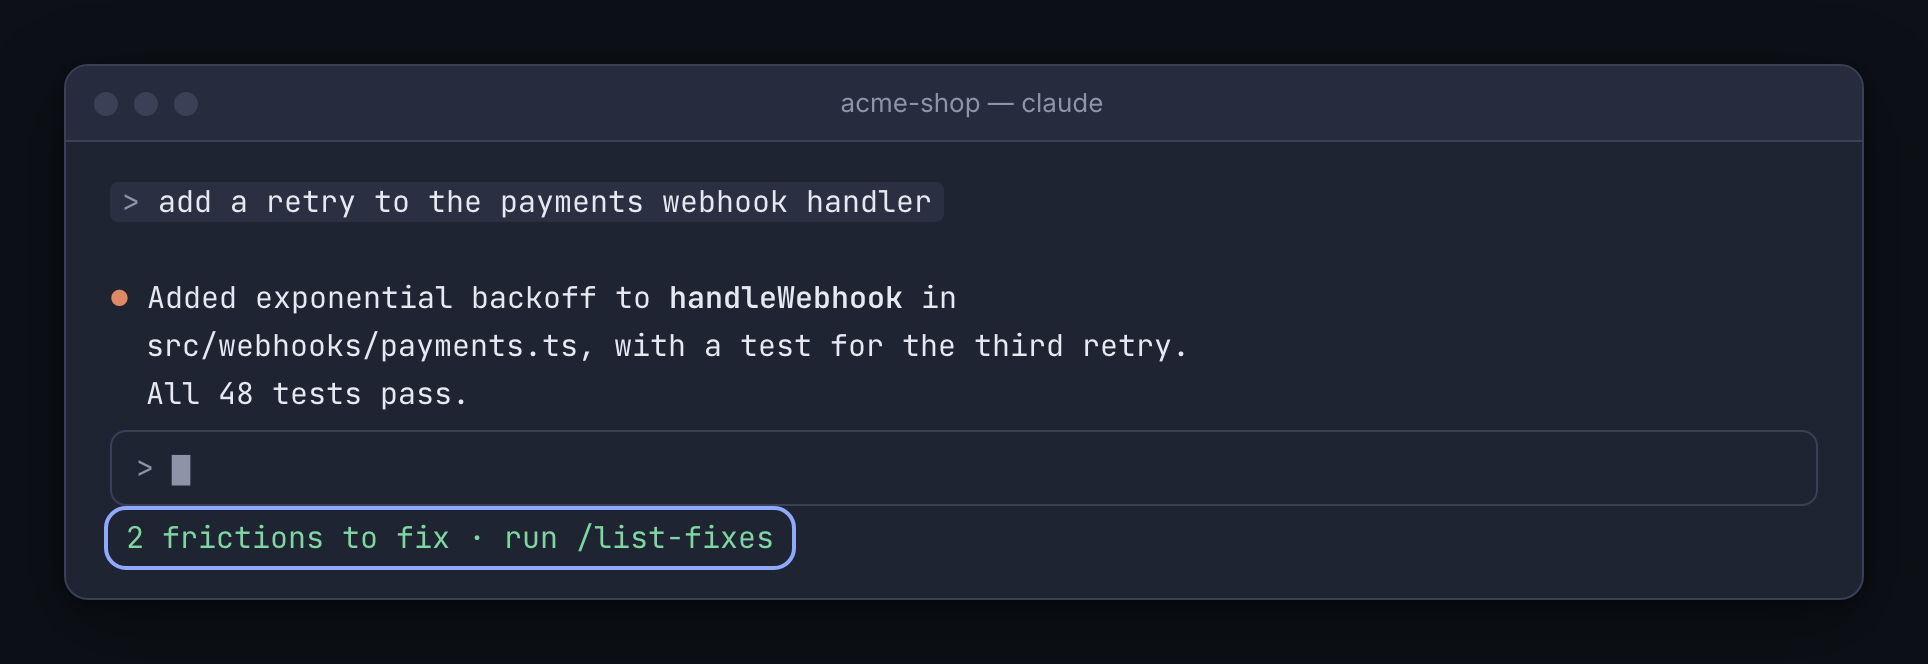
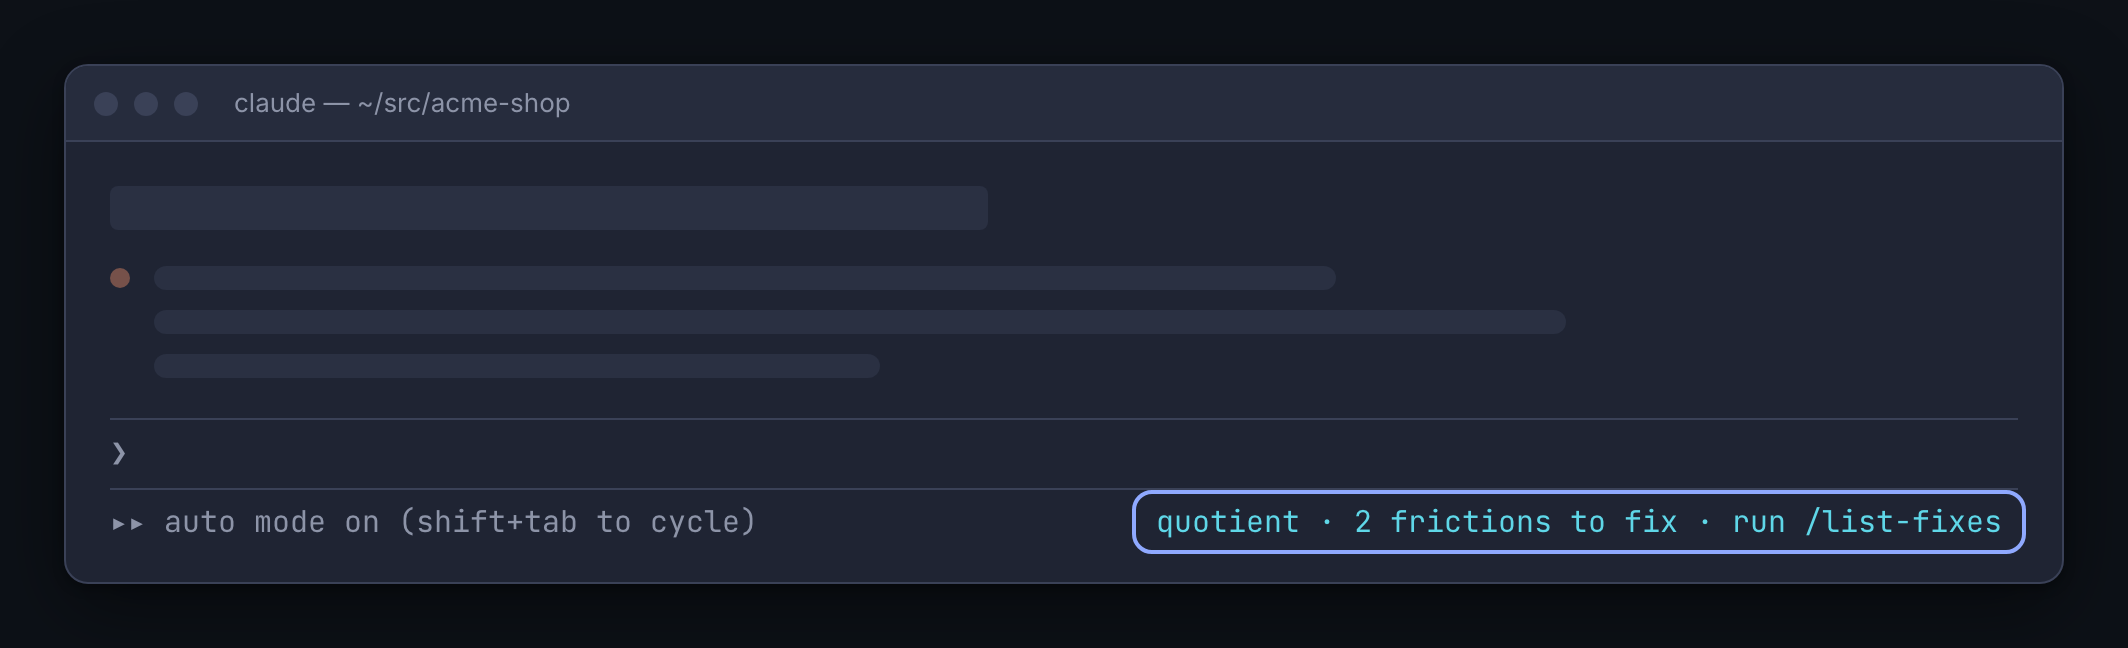
docs: simplify How it works and redraw the status line
How it works is now five steps: find and share friction, get fixes
from teammates, apply the fix, send a high-five, and see your team's
agents get better. Step 2 shows the status line and the list-fixes
pane. The status line image now matches Claude Code's layout, with the
quotient status at the bottom right and placeholder bars for the
session above it.

diff --git a/README.md b/README.md
@@ -128,37 +128,34 @@ In local sessions the plugin runs once a day in the background scanning for new 
 
 ## How it works
 
-1. **Find friction.** quotient reads your Claude Code sessions on your machine and writes a short description of each place your agent got stuck: a failing check, a missing tool, a wrong config path.
-2. **Share it.** Each description goes to Quotient, where your teammates' agents can see it. Quotient never gets your transcripts or files, and teammates never see who sent it.
-3. **Find fixes across the team.** Teammates' agents look through their own setups for something that already solves your friction, and send it back as a fix. Yours do the same for them. The plugin works in the background and the status line tells you when a teammate has a fix for you.
+1. **Find and share friction.** Quotient reads your Claude Code sessions on your machine and sends Quotient a short description of each place your agent got stuck: a failing check, a missing tool, a wrong config path. Quotient never gets your transcripts or files, and teammates never see who sent it.
+2. **Get fixes from teammates.** Teammates' agents look through their own setups for something that already solves your friction, and send it back as a fix. Yours do the same for them. The status line tells you when a fix is waiting, and `/quotient:list-fixes` lists your frictions that have one.
 
    <picture>
      <source media="(prefers-color-scheme: dark)" srcset="docs/assets/readme/status-line-dark.png">
      <img src="docs/assets/readme/status-line-light.png" alt="Claude Code's status line reads: 2 frictions to fix, run /list-fixes." width="100%">
    </picture>
 
-4. **Pick a friction.** `/quotient:list-fixes` opens your frictions in a side pane, highest severity first, each with how many fixes teammates found.
-
    <picture>
      <source media="(prefers-color-scheme: dark)" srcset="docs/assets/readme/list-fixes-dark.png">
      <img src="docs/assets/readme/list-fixes-light.png" alt="The Quotient side pane lists three frictions with fixes ready, including Lint passes on commit but fails in CI, with 2 fixes." width="100%">
    </picture>
 
-5. **Apply a fix.** You see the teammate's fix and the exact lines it changes. Choose to apply it, and Claude makes the change in your setup, through your usual permission settings.
+3. **Apply the fix.** Choose a fix, and Claude makes the change in your setup, through your usual permission settings.
 
    <picture>
      <source media="(prefers-color-scheme: dark)" srcset="docs/assets/readme/apply-fix-dark.png">
      <img src="docs/assets/readme/apply-fix-light.png" alt="A fix card shows the friction, a suggested fix from a teammate's setup and a one-line change to .husky/pre-commit. After applying it, Claude reports Fix implemented and offers to send a high-five." width="100%">
    </picture>
 
-6. **Send a high-five.** When a teammate's fix helps you, thank them with one keypress. It reaches them at the start of their next session, and like everything else in AgEx, it never says who sent it.
+4. **Send a high-five.** When a teammate's fix helps you, thank them with one keypress. It reaches them at the start of their next session, and it never says who sent it.
 
    <picture>
      <source media="(prefers-color-scheme: dark)" srcset="docs/assets/readme/high-five-dark.png">
      <img src="docs/assets/readme/high-five-light.png" alt="A message in Claude Code: High-five from a teammate, for your fix: Run the same lint command CI runs, from the repo root, in the pre-commit hook." width="100%">
    </picture>
 
-7. **See your team's agents get better.** Quotient's web app shows the frictions your team's agents hit, the areas they cluster in, and how many were fixed with a teammate's fix.
+5. **See your team's agents get better.** Quotient's web app shows the frictions your team's agents hit, the areas they cluster in, and how many were fixed with a teammate's fix.
 
    <picture>
      <source media="(prefers-color-scheme: dark)" srcset="docs/assets/readme/team-view-dark.png">
